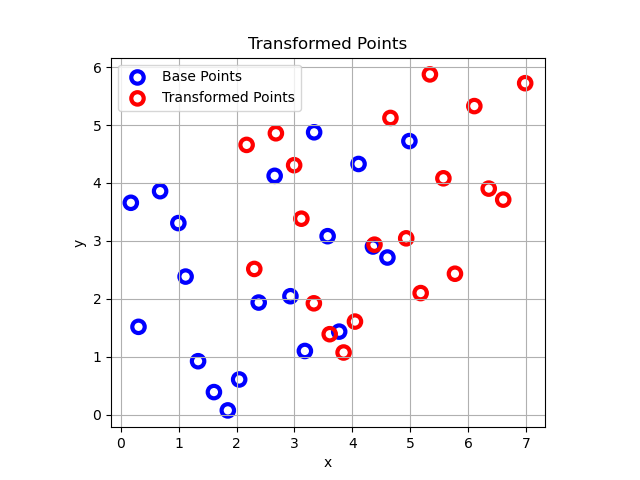
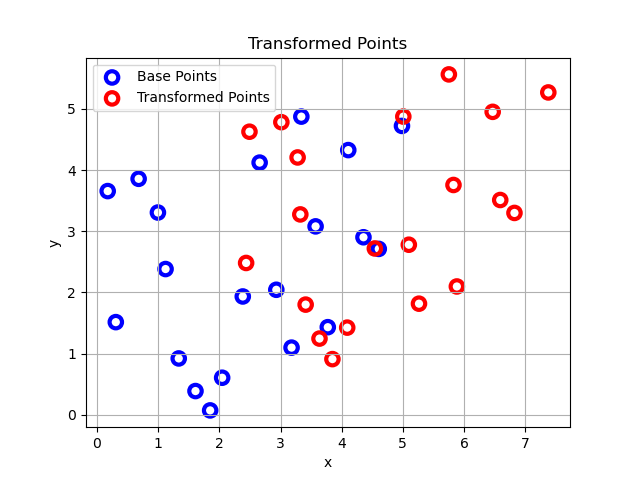
cleaned the code

diff --git a/blog_posts/icp/icp-2d.html b/blog_posts/icp/icp-2d.html
@@ -35,7 +35,7 @@
 <p>
     <ul>
         <li>Now we are going to find the transformation that mapped base points (reference point sets) to the second transformed set of points aka. source point set.</li>
-        <li>In order to do that we have to find a first estimate of the pair of points and the transformation between them.</li>
+        <li>In order to do that we have to find a first estimate of a pair of points and the transformation between them.</li>
         <li>A good way to initialize our guess is to find the closest point to each point in the reference point set.</li>
         <li>After finding the closest point, we have to calculate the transformation that can map the point in reference set to that closest point of last step.</li>
         <li>In order to do that we have to first formulate the problem into a least square minimization problem because it has many robust and fast methods to solve and is easier too!</li>
@@ -47,7 +47,7 @@
         \[p'_i = R p_i + T\]
         where R is a 3x3 rotation matrix and T is a 3x1 translation vector.
         we can formulate a minimization problem to find \(R\) and \(T\) as follows:
-        \[\min_{R,T} \sum_{i=1}^{n} \|p'_i - R p_i - T\|^2\].
+        \[\min_{R,T} \sum_{i=1}^{n} \|p'_i - R p_i - T\|^2\]
         If the solution to the least square problem is \(\hat{R}\) and \(\hat{T}\), then the centroid of point set {p"_i} and 
         {p_i} are the same.
         \[p"_i = \hat{R} p_i + \hat{T}\]
@@ -56,15 +56,18 @@
         \[q_i = p_i - p_c\]
         \[q'_i = p'_i - p'_c\]
         now the original minimization problem is formulated as a least square problem:
-        \[\min_{R,T} \sum_{i=1}^{n} \|q'_i - R q_i\|^2\].
+        \[\min_{R,T} \sum_{i=1}^{n} \|q'_i - R q_i\|^2\]
         Then all we have to do is to find \(R\) by solving the above least square problem using SVD decomposition
         and then we can simply find \(T\) by putting the \(R\) into this equation:
         \[\hat{T} = p' - \hat{R}p\]
-
-
-
-
-    </ul>
+        In order to do that we first define the matrix H like this:
+        \[H = q_i\dot q'_i\]
+        Then we can find the SVD decomposition of H like this:
+        \[H = U S V^T\]
+        Then we get \(X\) to be:
+        \[X = VU^T\]
+        Then we have to calculate the determinant of X; if it was +1 then \(X\) is the rotation matrix we have been looking for! 
+        if it was -1 then the algorithm has failed which is not so likely to happen.
 </p>
 <h2>Results</h2>
 <p>
@@ -77,6 +80,7 @@
         </div>
     </ul>
 </p>
+<p>you can find an implementation of it in my <a href="https://github.com/erfanhamdi/erfanhamdi.github.io/blob/main/blog_posts/icp/icp_main.py">github repository</a> along with all the figures.</p>
 
 </body>
 </html>

diff --git a/blog_posts/icp/icp_main.py b/blog_posts/icp/icp_main.py
@@ -1,10 +1,6 @@
-from email.mime import base
-from turtle import width
 from pyDOE import lhs
 import numpy as np
 import matplotlib.pyplot as plt
-# from icp import icp
-
 
 def rotate(points, degree):
     """Rotate points around origin by degree."""
@@ -72,7 +68,6 @@ def icp(reference, source):
     ref_point_idx = 0
     loss = 1
     while loss>0.1:
-    # for ref_point in reference:
         src_centroid = find_centroid(source)
         ref_point = reference[ref_point_idx]
         dists = calculate_point_distance(ref_point, source)
@@ -88,7 +83,6 @@ def icp(reference, source):
         plot_transition(source, source_new.T)
         source = source_new.T
         plt.scatter(source[:, 0], source[:, 1], c = 'g', alpha=0.7)
-
         ref_point_idx += 1
     return R, T
 
@@ -98,7 +92,7 @@ def plot_transition(initial, final):
     for i in range(len(initial)):
         plt.arrow(initial[i, 0], initial[i, 1], dx_dy[i, 0], dx_dy[i, 1], color = 'r', alpha = 0.2, width=0.05)
         plt.title('Transition')
-        # plt.savefig(f'{figure_dir}transition.png')
+        plt.savefig(f'{figure_dir}transition.png')
 
 if __name__ == '__main__':
     np.random.seed(123)
@@ -121,11 +115,11 @@ if __name__ == '__main__':
     ax.set_ylabel('y')
     ax.set_title('Base Points')
     ax.grid()
-    # plt.savefig(figure_dir + 'reference_points.png')
+    plt.savefig(figure_dir + 'reference_points.png')
     
     # Second set of points by applying random rotation, translation and scaling to the base points
     # Rotation
-    rotated_points = rotate(reference_points, 0)
+    rotated_points = rotate(reference_points, 5)
     # Translation
     translated_points = translate(rotated_points, 2, 1)
     # Scaling
@@ -135,7 +129,7 @@ if __name__ == '__main__':
     ax.scatter(source_points[:,0], source_points[:,1], color='red', label = 'Transformed Points',  s=80, facecolors='none', edgecolors='r', linewidths=3)
     ax.legend()
     ax.set_title('Transformed Points')
-    # plt.savefig(figure_dir + 'source_points.png')
+    plt.savefig(figure_dir + 'source_points.png')
     # calculating the transformation matrix from line1 to line2
     R, T = icp(reference_points, source_points)
 
